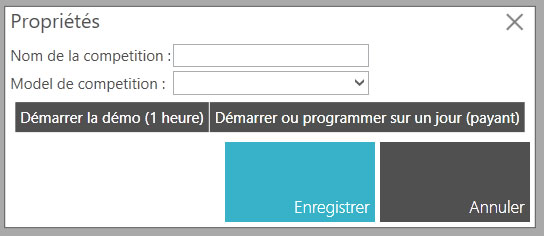
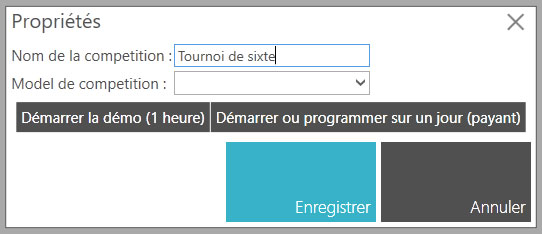
mise à jour

Changed region(s): [[0.0, 0.0299, 1.0, 0.9872]]

diff --git a/docs/create-competition.md b/docs/create-competition.md
@@ -1,12 +1,20 @@
 # Créer une compétition
 
-1. Depuis la liste des compétitions cliquer sur "Créer une compétition".
+1. Depuis la liste des compétitions cliquer sur **Créer une compétition**.
 ![bouton créer une compétition](img/create-competition/1.jpg)
+
 2. Saisir le nom de la compétition (obligatoire)
-3. Sélectionnez le modèle de compétition (facultatif)
-4. Sélectionner "Démarrer la démo (1 heure)" ou "Démarrer ou programmer sur un jour (payant)"
-*Il faut au préalable s'enregistrer et se connecter avec l'application pour avoir l'option "Démarrer ou programmer sur un jour (payant)"*
 ![formulaire de creation](img/create-competition/2.jpg)
 
-4.1. Si vous avez sélectionné "Démarrer ou programmer sur un jour (payant)", saisissez la date de début de votre compétition
+3. Sélectionnez le modèle de compétition (facultatif)
+![formulaire de creation](img/create-competition/3.jpg)
+
+4. Sélectionner **Démarrer la démo (1 heure)** ou **Démarrer ou programmer sur un jour (payant)**
+
+*Il faut au préalable s'enregistrer et se connecter avec l'application pour avoir l'option "Démarrer ou programmer sur un jour (payant)"*
+
+Si vous avez sélectionné **Démarrer ou programmer sur un jour (payant)**, saisissez la date de début de votre compétition
+![formulaire de creation](img/create-competition/4.jpg)
+
+5. Cliquer sur **Enregistrer**
 
